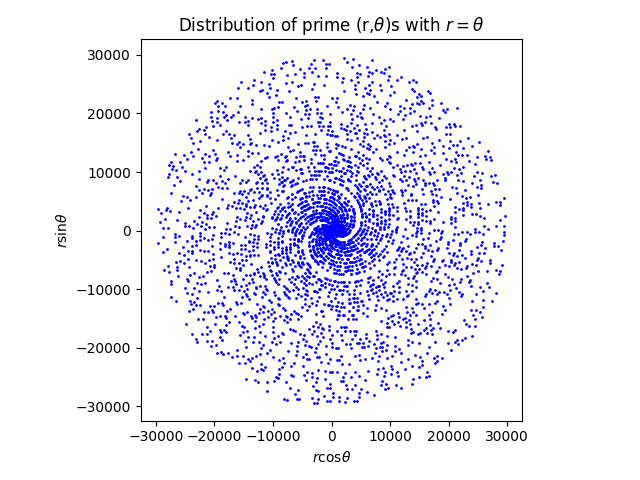
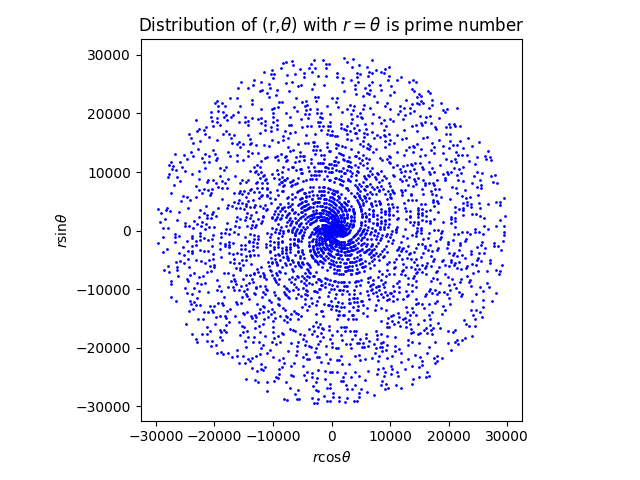
update

Changed region(s): [[0.2188, 0.0312, 0.8125, 0.0625]]

diff --git a/funpython/playwithprime/playwithprime.py b/funpython/playwithprime/playwithprime.py
@@ -32,6 +32,6 @@ if __name__ == '__main__':
     # plt.axis('equal')
     plt.xlabel(r"$r\cos\theta$")
     plt.ylabel(r"$r\sin\theta$")
-    plt.title(r"Distribution of prime (r,$\theta$)s with $r=\theta$")
+    plt.title(r"Distribution of (r,$\theta$) with $r=\theta$ is prime number")
     plt.axis('square')
     plt.show()
